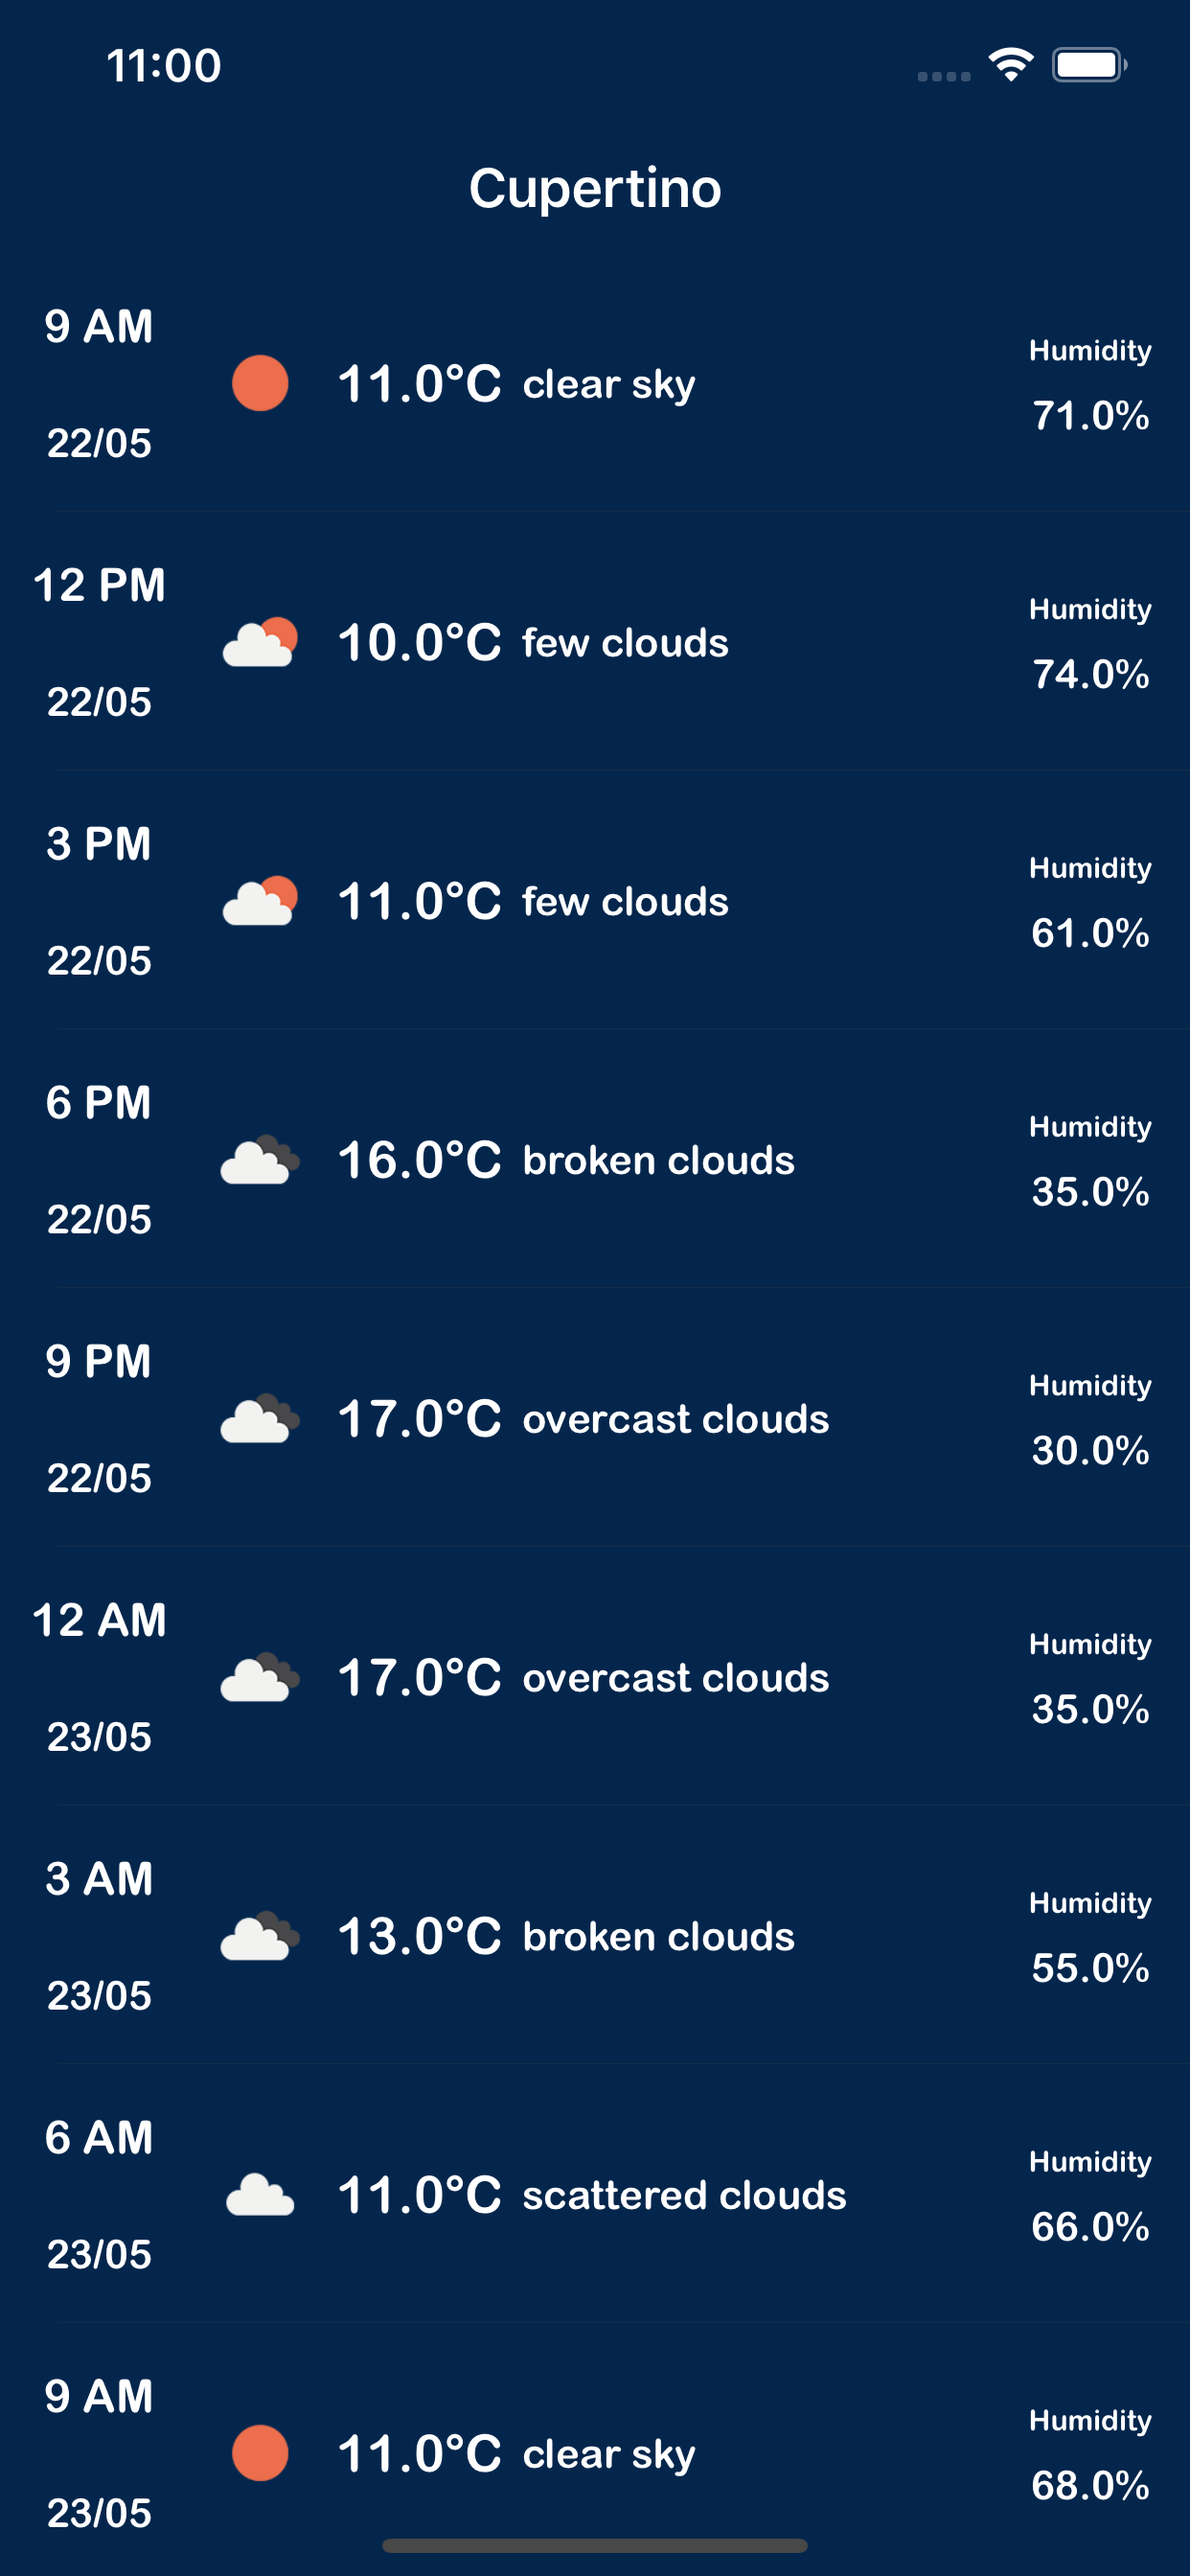
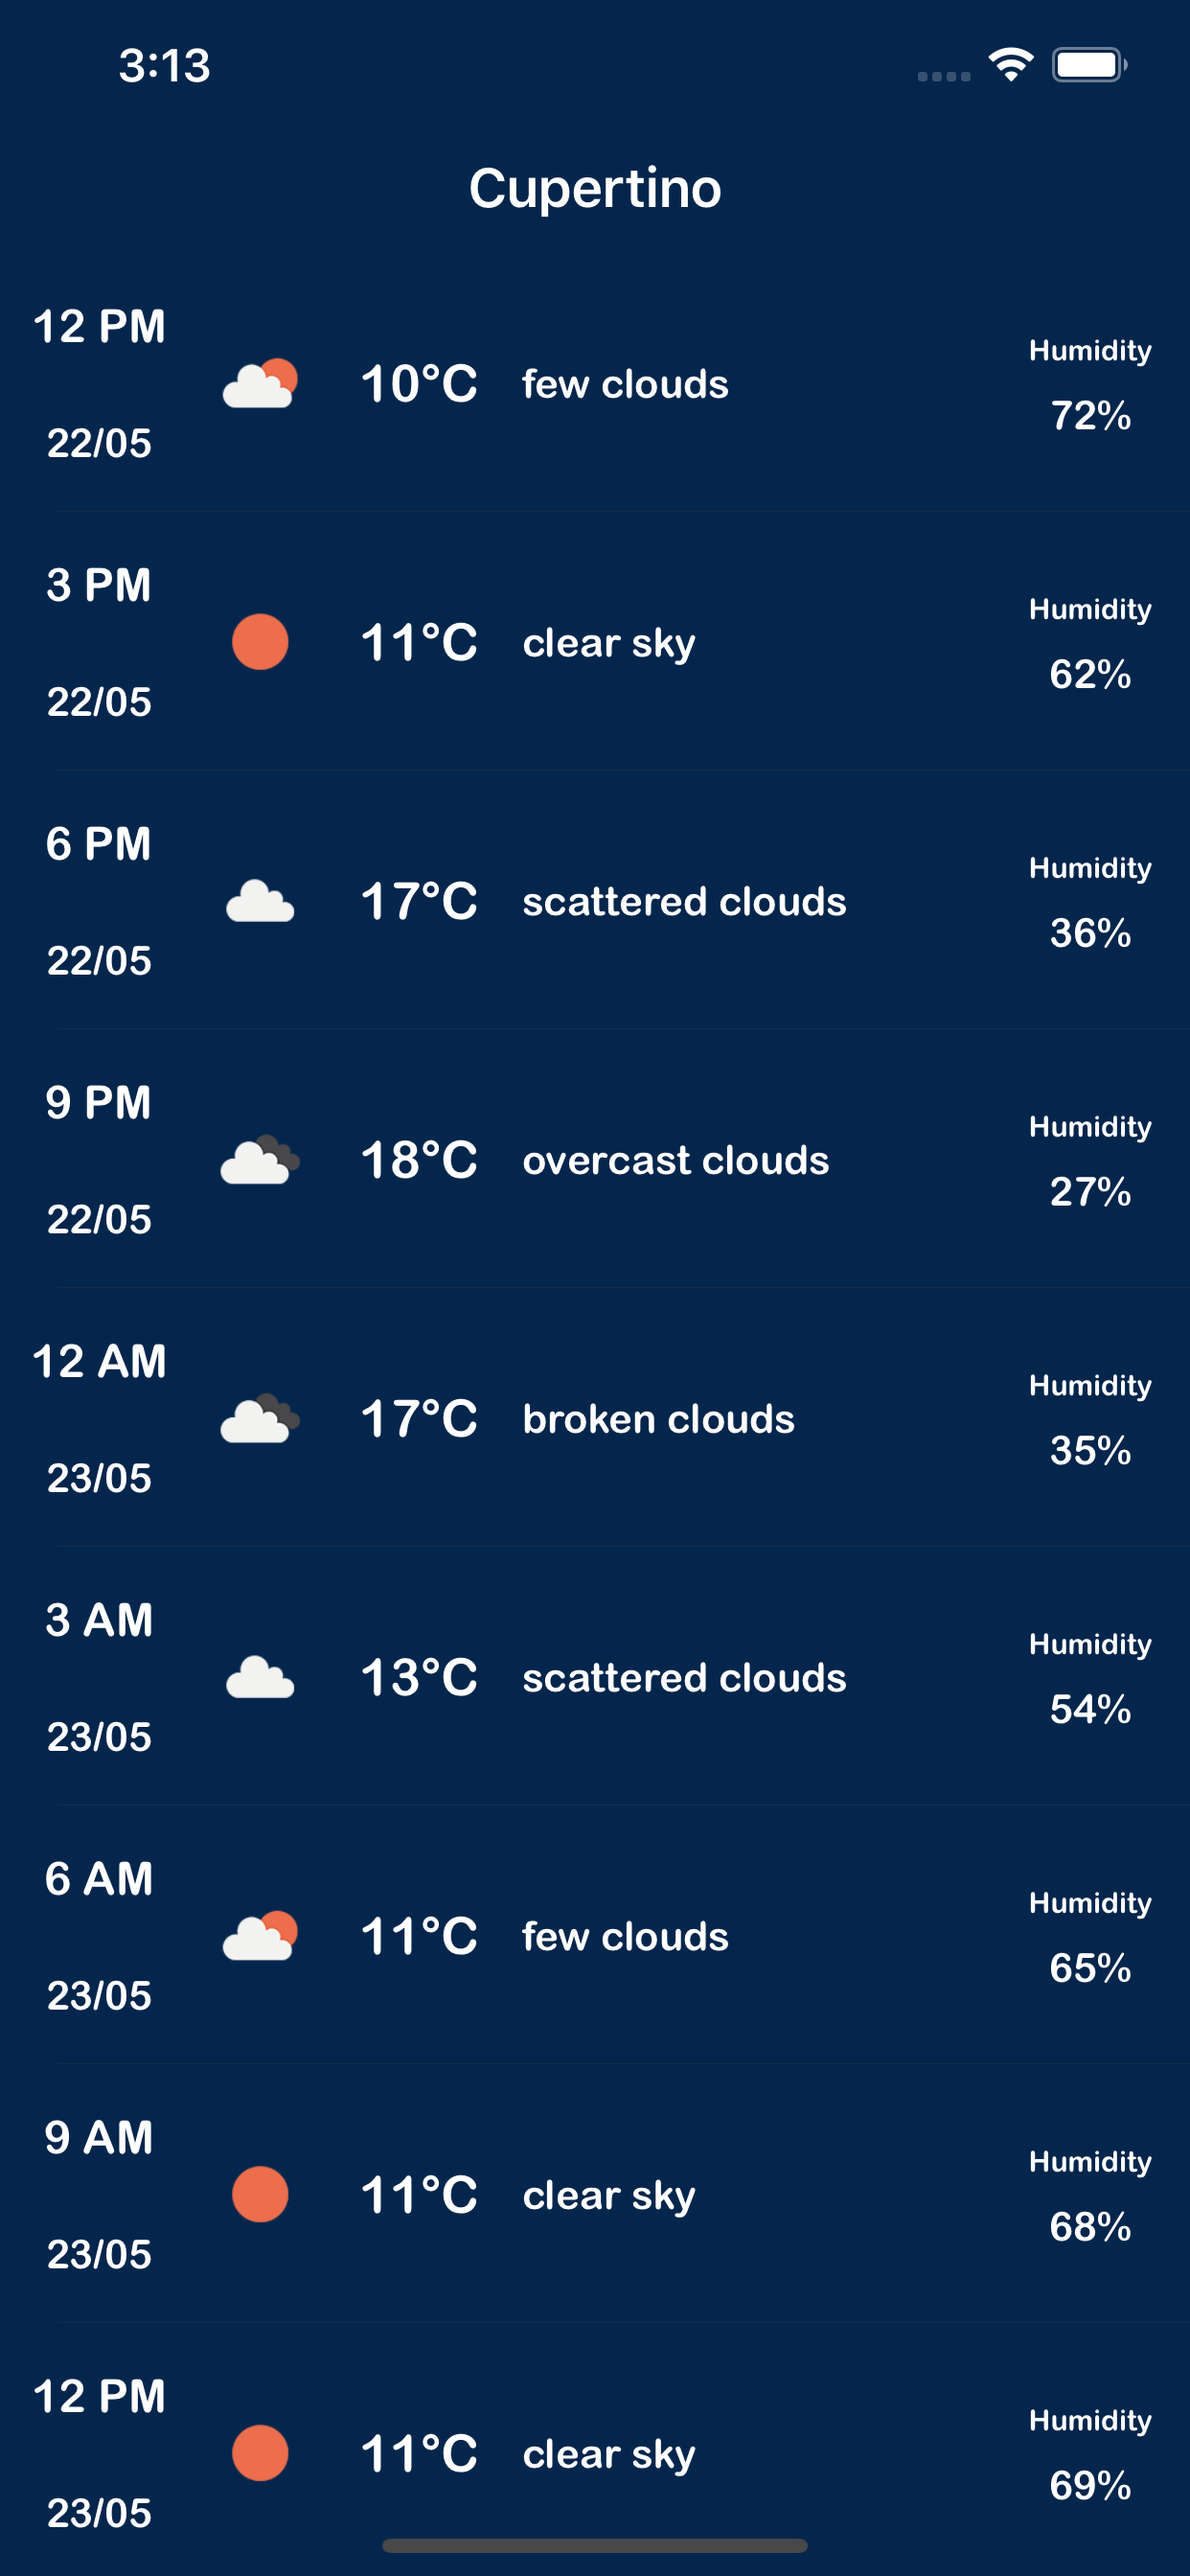
Fixed some UI issues & updated screenshots

diff --git a/AwesomeWeather/Models/Weather.swift b/AwesomeWeather/Models/Weather.swift
@@ -46,13 +46,13 @@ struct Weather:Decodable {
     var humidity: String?
     init(from decoder: Decoder) throws {
         let rawResponse = try RawServerResponse(from: decoder)
-        self.temperature = "\( rawResponse.main?.feels_like?.rounded() ?? 0)°C"
+        self.temperature = "\(Int(rawResponse.main?.feels_like?.rounded() ?? 0))°C"
         let dateTime = Utils.getDateTimeFromString(str: rawResponse.dt_txt)
         self.date = dateTime.1
         self.time = dateTime.0
         self.icon = rawResponse.weather?[0].icon
         self.description = rawResponse.weather?[0].description
-        self.humidity = "\(rawResponse.main?.humidity ?? 0)%"
+        self.humidity = "\(Int(rawResponse.main?.humidity ?? 0))%"
     }
     
     func getWeatherIcon()->URL?{
